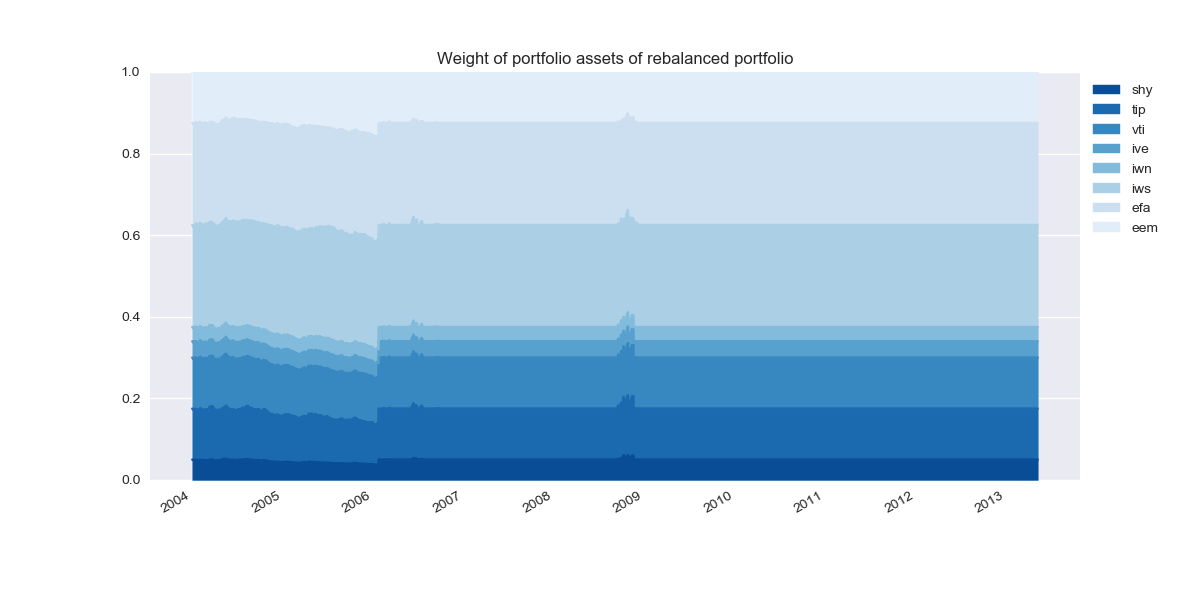
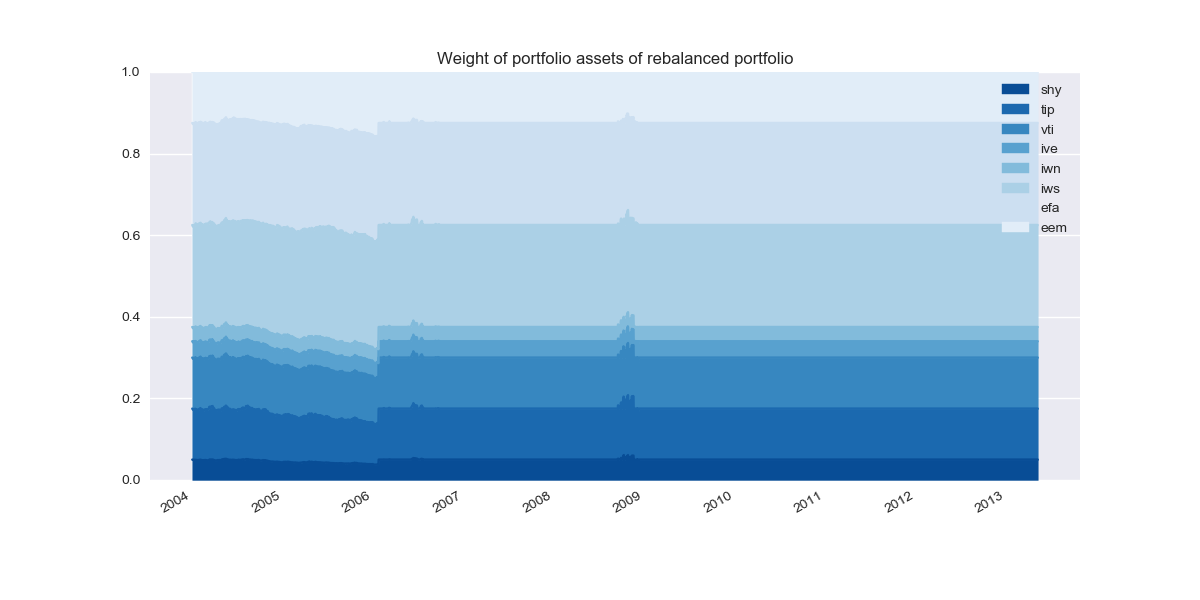
Renamed non_rebalanced to buy_and_hold

Changed region(s): [[0.8325, 0.12, 0.9558, 0.39]]

diff --git a/BCS.py b/BCS.py
@@ -37,13 +37,13 @@ if __name__ == '__main__':
 
     # NON REBALANCED PORTFOLIO
     cum_returns_df = (returns_df+1).cumprod()
-    non_rebalance_df = (cum_returns_df * STARTING_CASH) * initial_weights.values[0]
-    non_rebalance_df_alloc = (non_rebalance_df.div(non_rebalance_df.sum(axis=1), axis=0))
-    non_rebalance_df_returns = non_rebalance_df.sum(axis=1).pct_change(1)
+    buy_and_hold_df = (cum_returns_df * STARTING_CASH) * initial_weights.values[0]
+    buy_and_hold_df_alloc = (buy_and_hold_df.div(buy_and_hold_df.sum(axis=1), axis=0))
+    buy_and_hold_df_returns = buy_and_hold_df.sum(axis=1).pct_change(1)
 
     # REBALANCED PORTFOLIO
-    rebalance_df = non_rebalance_df.copy()
-    rebalance_df_alloc = non_rebalance_df_alloc.copy()
+    rebalance_df = buy_and_hold_df.copy()
+    rebalance_df_alloc = buy_and_hold_df_alloc.copy()
 
     for date in dates[1:]:
         if minkowski(rebalance_df_alloc.loc[date]) > ALLOWED_DRIFT:
@@ -57,12 +57,11 @@ if __name__ == '__main__':
     # MAKE AND SAVE PLOTS
 
     # DAILY RETURNS
-    non_rebalance_df_returns.plot(
-        figsize=(12,6),
-        title='Daily returns of non-rebalanced portfolio',
+    buy_and_hold_df_returns.plot(
+        figsize=(12, 6),
+        title='Daily returns of buy-and-hold portfolio',
         label='Daily returns')
-    plt.legend(bbox_to_anchor=(1, 1))
-    plt.savefig('non_rebalance_daily_returns.png')
+    plt.savefig('buy_and_hold_daily_returns.png')
     plt.gcf().clear()
     plt.close()
 
@@ -71,20 +70,18 @@ if __name__ == '__main__':
         title='Daily returns of rebalanced portfolio',
         label='Daily returns'
     )
-    plt.legend(bbox_to_anchor=(1, 1))
     plt.savefig('rebalance_daily_returns.png')
     plt.gcf().clear()
     plt.close()
 
     # WEIGHT OF ASSETS
-    non_rebalance_df_alloc.plot(
+    buy_and_hold_df_alloc.plot(
         figsize=(12, 6),
-        title='Weight of portfolio assets of non-rebalanced portfolio',
+        title='Weight of portfolio assets of buy-and-hold portfolio',
         kind='area',
         ylim=(0, 1)
     )
-    plt.legend(bbox_to_anchor=(1, 1))
-    plt.savefig('non_rebalance_weight')
+    plt.savefig('buy_and_hold_weight')
     plt.gcf().clear()
     plt.close()
 
@@ -94,19 +91,17 @@ if __name__ == '__main__':
         kind='area',
         ylim=(0, 1)
     )
-    plt.legend(bbox_to_anchor=(1, 1))
     plt.savefig('rebalance_weight')
     plt.gcf().clear()
     plt.close()
 
     # PORTFOLIO RETURNS
-    non_rebalance_df.sum(axis=1).plot(
+    buy_and_hold_df.sum(axis=1).plot(
         figsize=(12, 6),
         title='Value of portfolio',
         label='Value of portfolio'
     )
-    plt.legend(bbox_to_anchor=(1, 1))
-    plt.savefig('non_rebalance_value')
+    plt.savefig('buy_and_hold_value')
     plt.gcf().clear()
     plt.close()
 
@@ -115,7 +110,6 @@ if __name__ == '__main__':
         title='Value of portfolio',
         label='Value of portfolio'
     )
-    plt.legend(bbox_to_anchor=(1, 1))
     plt.savefig('rebalance_value')
     plt.gcf().clear()
     plt.close()
